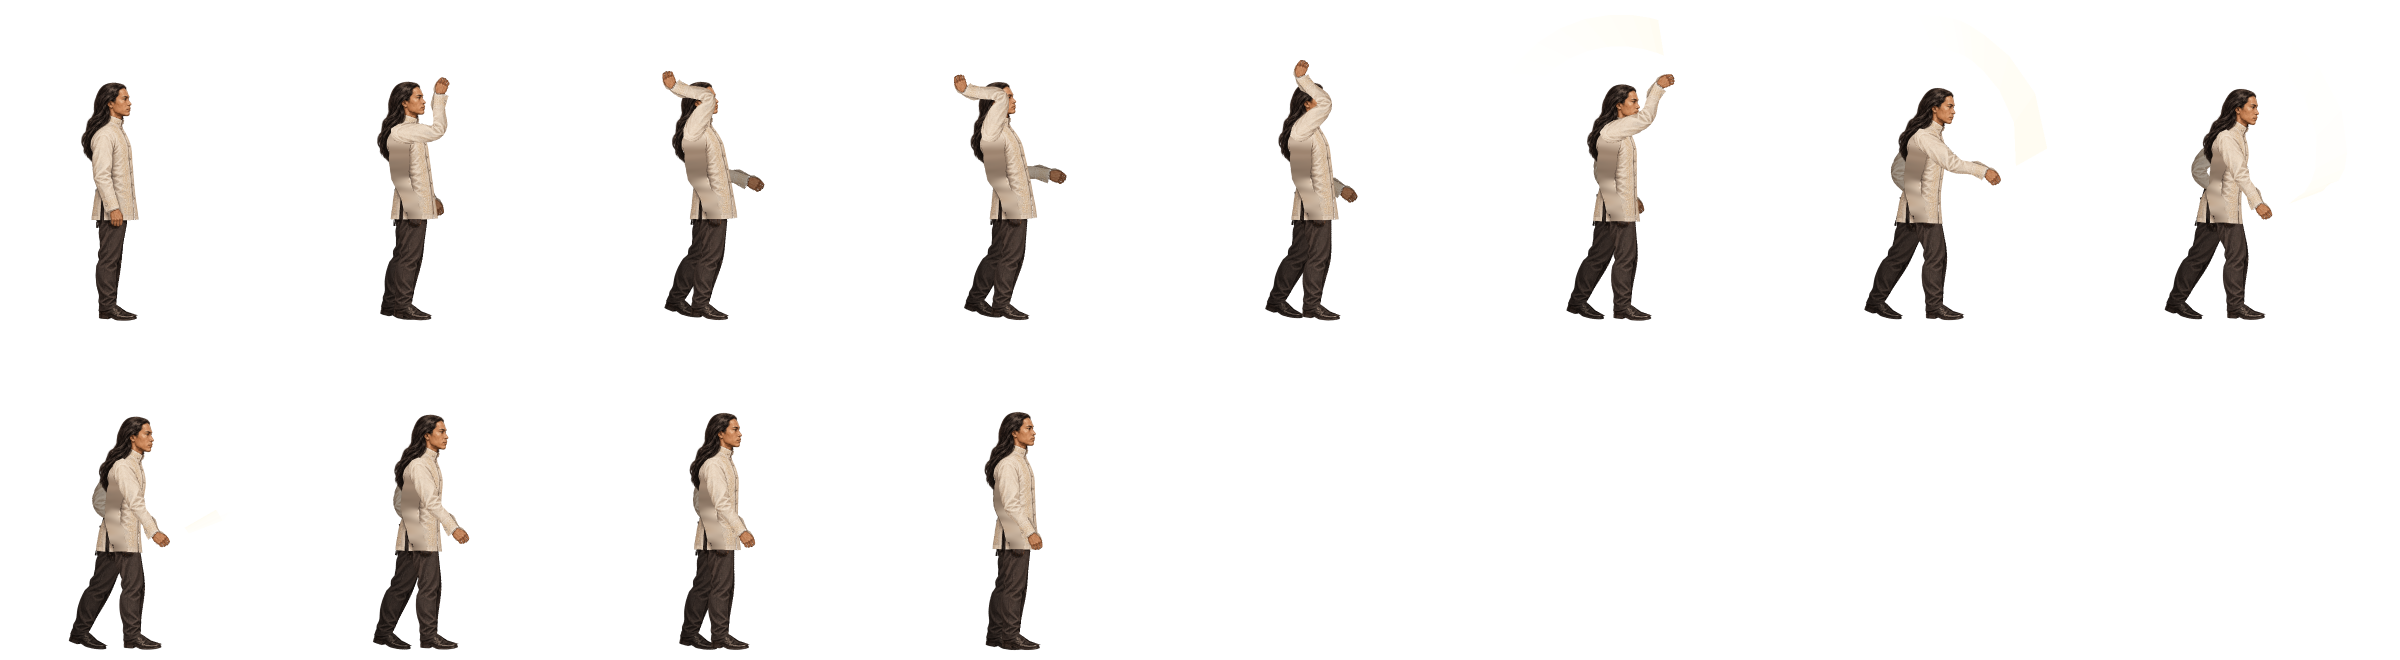
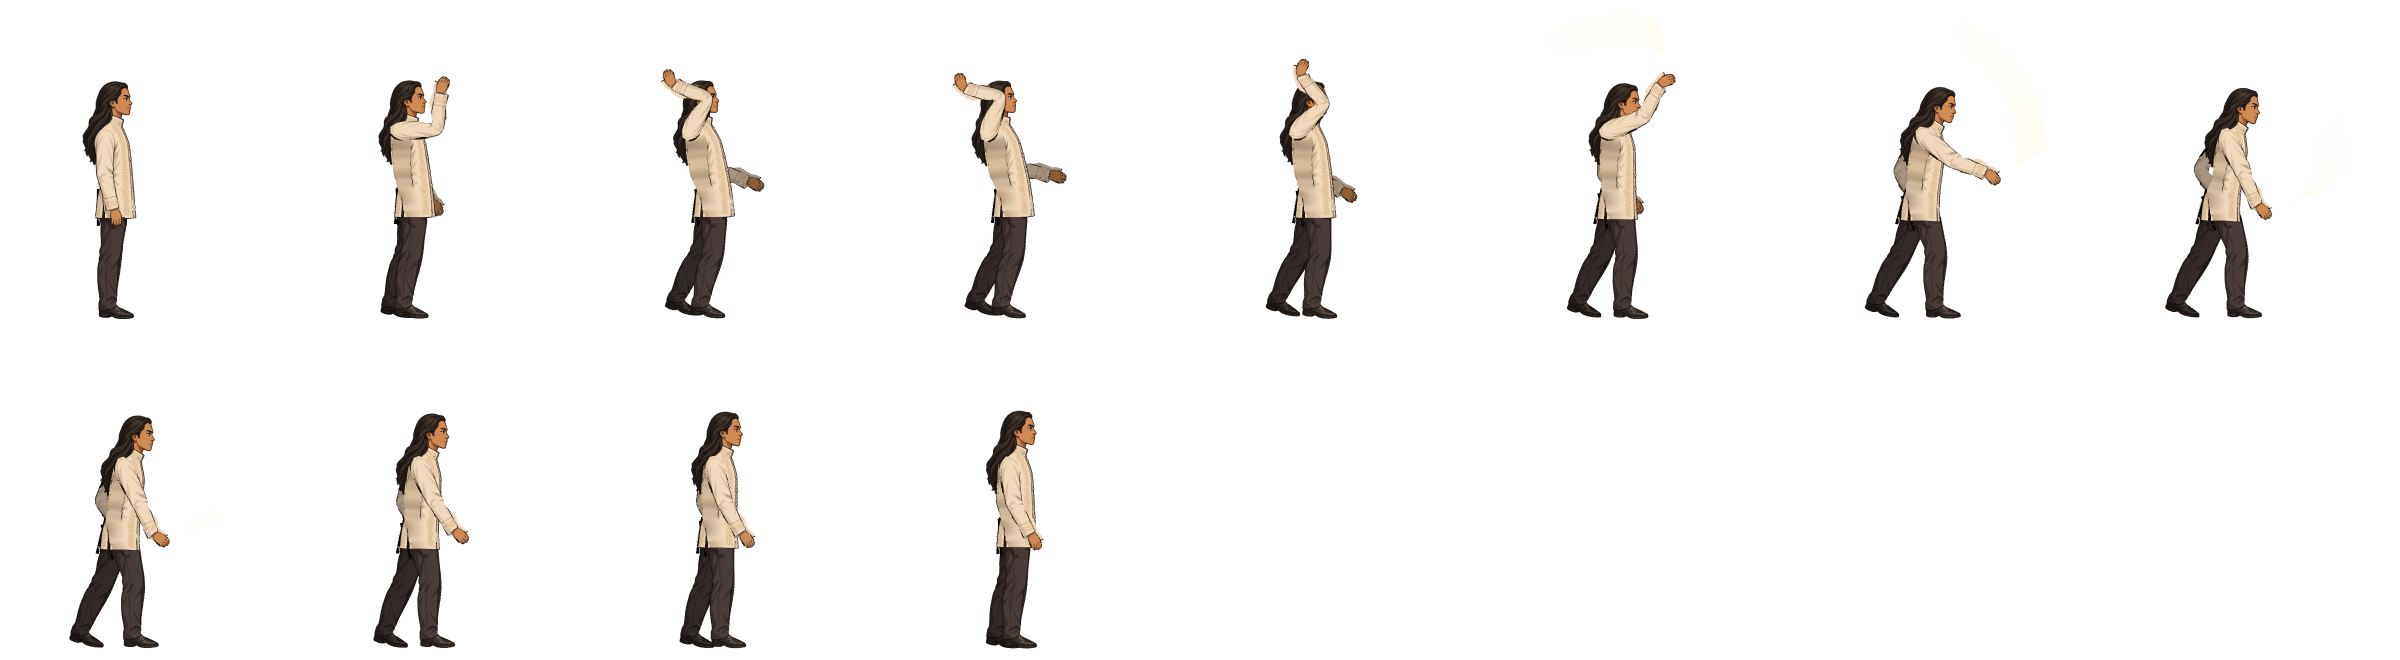
Block 145: Macario drawn in the NPCs' style
His still is now Macario in the NPCs' own style (clean outlines, flat
shading, from ART.md's prompt), replacing the realistic painting. The
pose carried over, so the skeleton did, with the sleeve and near shoe
traced again. skeleton.js keeps the drawing's outlines with the part
they ring (outlineLuma), the jacket's own lines on the jacket, and the
hand's soft edge out of the hidden trousers. Every sheet shipped; the
painting kept in docs-private/.

diff --git a/_dev/player-lab/macario.js b/_dev/player-lab/macario.js
@@ -3,15 +3,18 @@
 //
 // Macario's skeleton for _dev/tools/skeleton.js: where his bones are in
 // the still, how the still is split into layers, and what the sheets
-// are called. A skin painted on the same template (the same pose, the
-// same canvas, the same scale) uses this file as it is, with only
-// still changed, which is what makes a new outfit one command.
+// are called. The still is Macario drawn in the NPCs' own style (clean
+// outlines, flat shading; ART.md's prompt, 24 Oct 2026), which replaced
+// the realistic painting the same day (Block 145). A skin painted on the
+// same template (the same pose, the same canvas, the same scale) uses
+// this file as it is, with only still changed.
 //
 // Every coordinate is in the working picture: the still cropped to
 // crop and shrunk by shrink (so 210 x 745 for the 1024 x 1536 template),
 // read off zoomed crops with a 10px grid. node _dev/tools/skeleton.js
 // macario --debug writes that picture with the bones and outlines drawn
-// on, to check them by eye.
+// on, to check them by eye. Near-black pixels inside the arm's outline
+// are the drawing's own lines and go with the arm (outlineLuma).
 // =============================================================
 
 module.exports = {
@@ -19,7 +22,7 @@ module.exports = {
   crop: [290, 40, 420, 1490],   // x, y, w, h in the template
   shrink: 2,
 
-  ground: 737,                  // his soles
+  ground: 734,                  // his soles
 
   joints: {
     hip: [100, 362],            // the pelvis; the root, and the thighs' pivot
@@ -43,23 +46,24 @@ module.exports = {
   // The near arm, sleeve and hand: drawn in front of everything, and
   // drawn again behind him, darker, as the far arm. Hair inside it stays
   // with the body.
-  arm: [[72, 154], [95, 154], [108, 178], [112, 210], [109, 250], [105, 290],
-    [101, 318], [112, 343], [126, 360], [129, 398], [136, 408], [137, 428],
-    [131, 448], [119, 454], [104, 451], [97, 438], [95, 410], [84, 407],
-    [81, 368], [73, 352], [58, 327], [50, 300], [45, 255], [44, 205],
-    [47, 178], [56, 162]],
+  arm: [[72, 151], [98, 153], [110, 173], [115, 207], [113, 250], [111, 290],
+    [109, 318], [118, 343], [130, 358], [132, 398], [138, 410], [141, 428],
+    [134, 450], [120, 457], [104, 453], [96, 438], [94, 410], [83, 407],
+    [79, 368], [70, 350], [64, 328], [58, 300], [53, 240], [54, 180],
+    [60, 162]],
 
   // The near leg, from above the hip (under the jacket, filled with
   // trouser) down round the near shoe. Its front edge runs down the
   // crease where the far leg shows; the far leg and shoe are left out
   // and replaced by this leg drawn again, darker.
   leg: [[56, 338], [152, 338], [152, 440], [141, 500], [136, 550], [131, 590],
-    [123, 640], [119, 690], [150, 711], [186, 723], [188, 745], [58, 745],
+    [123, 640], [120, 690], [128, 698], [150, 708], [170, 718], [176, 730], [176, 745], [58, 745],
     [60, 700], [55, 600], [57, 500], [58, 440]],
 
   darkLuma: 100,                // trousers, shoes and hair are darker than this
   hairAbove: 330,               // dark pixels above this are hair, not trouser
-  hemY: 431,                    // the jacket ends here
+  hemY: 426,                    // the jacket ends here
+  outlineLuma: 34,              // near-black: the drawing's outlines
   farShade: 0.68,               // the far arm and leg, darkened
   farLegOffset: 16,             // the far foot stands this far ahead at rest
 

diff --git a/_dev/tools/skeleton.js b/_dev/tools/skeleton.js
@@ -161,9 +161,19 @@ function buildTextures(sk, img) {
     for (let x = 0; x < W; x++) {
       const i = y * W + x;
       if (!solid(i)) continue;
-      if (inArm[i] && !hair(i, y) && !(trouser(i, y) && !skin(i))) { copy(arm, i); armSrc[i] = 1; continue; }
-      if (trouser(i, y)) {
-        if (inLeg[i]) { copy(leg, i); legSrc[i] = 1; }
+      // A drawing with outlines (the NPCs' style) rings the sleeve and the
+      // hand in near-black: inside the arm's outline that black is the
+      // arm's own line, not hair or trouser, and must move with it.
+      const line = sk.outlineLuma && lum[i] < sk.outlineLuma;
+      if (inArm[i] && (line || (!hair(i, y) && !(trouser(i, y) && !skin(i))))) { copy(arm, i); armSrc[i] = 1; continue; }
+      // Above the hem, a near-black line is the jacket's own (the edges of
+      // its slits, its hem), so it stays on the jacket; the trouser seen
+      // through a slit is dark grey and goes with the leg.
+      if (trouser(i, y) && !(line && y <= sk.hemY + 2)) {
+        // Not inside the arm's outline: what is there is the hand's soft
+        // edge, which copied into the hidden trouser leaves pale flecks.
+        // The trouser under the hand is painted in instead.
+        if (inLeg[i] && !inArm[i]) { copy(leg, i); legSrc[i] = 1; }
         continue;   // the far leg's pixels: replaced by the far leg
       }
       copy(body, i); bodySrc[i] = 1;
@@ -177,7 +187,11 @@ function buildTextures(sk, img) {
     for (let x = 0; x < W; x++) {
       const i = y * W + x;
       if (inArm[i] && !bodySrc[i] && y < sk.hemY) bodyHole[i] = 1;
-      if (bodySrc[i] && !dark(i)) jacket[i] = 1;
+      // Only solid cloth: not a half-transparent edge, and not the warm
+      // fringe a cut-out drawing can leave along an edge, which painted in
+      // would smear pink across the jacket.
+      const A = px[i * 4 + 3];
+      if (bodySrc[i] && !dark(i) && A > 0.95 && (px[i * 4] - px[i * 4 + 1]) / A < 0.12) jacket[i] = 1;
     }
   }
   fillRows(body, W, H, bodyHole, jacket);
@@ -187,7 +201,7 @@ function buildTextures(sk, img) {
   for (let y = 0; y < H; y++) {
     for (let x = 0; x < W; x++) {
       const i = y * W + x;
-      if (inLeg[i] && !legSrc[i] && y < sk.hemY + 24) legHole[i] = 1;
+      if (inLeg[i] && !legSrc[i] && (y < sk.hemY + 24 || inArm[i])) legHole[i] = 1;
     }
   }
   fillUp(leg, W, H, legHole, legSrc, sk.hemY);

diff --git a/js/game.js b/js/game.js
@@ -2105,7 +2105,8 @@ if (BODY_TRANSLATE) player.style.bottom = "0px";
 // The sheets Macario wears with nothing equipped. A worn item replaces
 // whichever of them it declares and leaves the rest alone (setOutfit).
 //
-// Block 145. His own model since 24 Oct 2026: every sheet is written by
+// Block 145. His own model since 24 Oct 2026, drawn in the NPCs' style
+// (clean outlines, flat shading): every sheet is written by
 // _dev/tools/skeleton.js from one still (_dev/player-lab/macario.js;
 // node _dev/tools/skeleton.js macario --ship), not drawn frame by frame,
 // so the numbers below are the tool's, the same for every sheet: a cell
@@ -2130,7 +2131,7 @@ const BASE_SPRITE_SHEETS = {
   shootAim: Object.assign({ src: "assets/sprites/player/macario-shoot.png", frames: 12, fps: 8,
     startFrame: 0, endFrame: 2, loop: false }, MACARIO_CELL),
   shootFire: Object.assign({ src: "assets/sprites/player/macario-shoot.png", frames: 12, fps: 18,
-    startFrame: 3, endFrame: 11, loop: false, muzzle: { x: 162, y: 62 } }, MACARIO_CELL),
+    startFrame: 3, endFrame: 11, loop: false, muzzle: { x: 163, y: 61 } }, MACARIO_CELL),
 
   // The one-tap punch (playMelee), 12 frames at 24: half a second. Block
   // 71's contact is the frame the fist lands on, where the hit is

diff --git a/js/asset-manifest.js b/js/asset-manifest.js
@@ -436,12 +436,12 @@ window.ASSET_VERSIONS = {
   "assets/sprites/enemies/kawal-hit.png": "4050874079",
   "assets/sprites/enemies/kawal-still.png": "1894805909",
   "assets/sprites/enemies/kawal-walk.png": "1562208792",
-  "assets/sprites/player/macario-idle.png": "1197677810",
-  "assets/sprites/player/macario-jump.png": "1271253792",
-  "assets/sprites/player/macario-melee.png": "1337309731",
-  "assets/sprites/player/macario-shoot.png": "1726851666",
-  "assets/sprites/player/macario-slash.png": "2935745944",
-  "assets/sprites/player/macario-walk.png": "2337211659",
+  "assets/sprites/player/macario-idle.png": "1882840557",
+  "assets/sprites/player/macario-jump.png": "452267410",
+  "assets/sprites/player/macario-melee.png": "1097123052",
+  "assets/sprites/player/macario-shoot.png": "2301108889",
+  "assets/sprites/player/macario-slash.png": "1139469505",
+  "assets/sprites/player/macario-walk.png": "2346243320",
   "assets/sprites/rooms/bahay/altar.png": "2109676427",
   "assets/sprites/rooms/bahay/bangkito.png": "2431776932",
   "assets/sprites/rooms/bahay/banig.png": "343533461",

diff --git a/_dev/player-lab/index.html b/_dev/player-lab/index.html
@@ -150,7 +150,10 @@ function frame(now) {
   requestAnimationFrame(frame);
 }
 
-fetch("out/macario.json?t=" + Date.now()).then((r) => r.json()).then((list) => {
+// ?model=<skeleton> shows another skeleton's output (a skin under
+// test); without it, the game's own (macario).
+const MODEL = new URLSearchParams(location.search).get("model") || "macario";
+fetch("out/" + MODEL + ".json?t=" + Date.now()).then((r) => r.json()).then((list) => {
   for (const r of list) {
     const d = { src: r.file, frames: r.frames, fps: r.fps, columns: r.columns, contentTop: r.contentTop, contentHeight: r.contentHeight, footX: r.footX };
     if (r.name === "melee" || r.name === "slash") d.parts = [[0, r.frames - 1, r.fps, 0.6]];

diff --git a/index.html b/index.html
@@ -712,8 +712,8 @@
   <script src="content/act4.js?v=3959591231"></script>
   <script src="content/items.js?v=3420593897"></script>
   <script src="content/questions.js?v=3416852880"></script>
-  <script src="js/asset-manifest.js?v=3006405524"></script>
-  <script src="js/game.js?v=2461273066"></script>
+  <script src="js/asset-manifest.js?v=1707300679"></script>
+  <script src="js/game.js?v=388743416"></script>
   <script src="js/acts.js?v=1586992135"></script>
   <script src="js/inventory.js?v=2872116366"></script>
   <script src="js/assessment.js?v=3475551511"></script>

diff --git a/ART.md b/ART.md
@@ -126,30 +126,6 @@ Nothing needed.
 
 Nothing needed.
 
-Also wanted (not in the game yet):
-
-    macario-npc-style.png
-        (Attach isko-still.png from the folder assets/sprites/characters,
-        and macario-still.png from the folder _dev/player-lab)
-        Refer to the two attached images. Draw the man in the second
-        image (his face, his long loose black hair, his white jacket with
-        the standing collar and the cream embroidery down the front, his
-        dark trousers and his black leather shoes) in exactly the art
-        style of the first image: the same clean dark outlines, the same
-        simple, flatter shading with few colours, the same level of
-        detail and the same proportions of head to body. He stands side
-        on, facing right, upright and relaxed, both feet flat on the
-        ground, his near arm hanging straight down with a little space
-        between the arm and his body, the hand loosely closed. His whole
-        figure is in the picture, about 1000 pixels tall, nothing cut
-        off. No shadow on the ground, nothing else in the picture.
-        Transparent background.
-        (NOT STARTED; for the team: a Macario in the NPCs' own style, so
-        he matches them and moves as naturally as they do (Block 145).
-        If it comes out right, his bones are traced on it as on
-        macario-still.png and _dev/tools/skeleton.js writes every sheet
-        from it.)
-
 ### Act II
 
 Nothing needed.
@@ -603,7 +579,10 @@ Done and in the game. Nothing here needs drawing.
                   (malabon-1 and 2), Bilibid's yard (patyo)
 
     Sprites
-        Macario   idle, walk, jump, punch, shot
+        Macario   his still in the NPCs' style (macario-still.png in
+                  _dev/player-lab, 24 Oct 2026), from which
+                  skeleton.js writes idle, walk, jump, punch, shot
+                  and the bolo's slash
         Act I     Nanay, the Kutsero and his horse (Kabayo), the
                   Barbero, the Mananahi, the three siga, the direktor,
                   Maryam, the Sultan, the kawal, the Katipunero, the

diff --git a/DECISIONS.md b/DECISIONS.md
@@ -6547,6 +6547,26 @@ shot rather than having both. Still open: the pistol in his hand is
 owed like the blade (a prop, the same mechanism), so the shot points an
 empty fist, and the slash is made empty-handed until the blade comes.
 
+The drawing changed, not the tool, and that is what made him look right
+(24 Oct 2026, the proponent: "FINALLY!"). Two tries before it failed:
+the realistic painting animated by the tool still read as off, and a
+parts sheet from ChatGPT (every body part drawn apart, put together by
+the tool) looked wrong at the joints and in proportion. Then the same
+Macario was asked for in the NPCs' own style (ART.md: Isko's still for
+the style, the painting for the design): clean outlines, flat shading,
+the NPCs' head-to-body proportions. ChatGPT kept the painting's pose
+almost exactly, so the skeleton carried over with a few points traced
+again (the sleeve's back edge, the near shoe's top), and the motion the
+proponent had already accepted on the NPCs now reads as natural on him.
+Why, as far as can be told: a painted, near-photographic figure shows
+every stretch the mesh makes and every invented hidden part, and it
+did not match the drawn world round it; a flat, outlined figure hides
+both, and matches. Two changes to the tool came with it: near-black
+pixels inside the arm's outline go with the arm (outlineLuma), and the
+jacket's own lines above the hem stay on the jacket; the hand's soft
+edge is kept out of the hidden trousers. The painting went to
+docs-private/art-delivered/2026-10-24-old-macario/.
+
 ## Moved from CLAUDE.md (Block 110, Scan S36)
 
 History taken out of CLAUDE.md, word for word, so the file every

diff --git a/CLAUDE.md b/CLAUDE.md
@@ -237,11 +237,12 @@ off the repository.
     _dev/hooks/                pre-commit: prepare.js --check (Block 106)
     _dev/rigs/                 one rig per character animated from a
                                still by animate-still.js (Block 97)
-    _dev/player-lab/           the player's own model (Block 145): its
-                               skeleton (macario.js) for
-                               _dev/tools/skeleton.js, the sheets it
-                               writes (out/), and the test page
-                               (index.html) beside today's Macario
+    _dev/player-lab/           the player's own model (Block 145): his
+                               still in the NPCs' style
+                               (macario-still.png), its skeleton
+                               (macario.js) for _dev/tools/skeleton.js,
+                               the sheets it writes (out/), and the test
+                               page (index.html) beside an NPC
     _dev/tools/                measure-sprite.js, key-black.py (a sheet
                                on black), key-still.js (a still on
                                black, cropped and shrunk; Block 133),

diff --git a/TRACKER.md b/TRACKER.md
@@ -391,8 +391,9 @@ _dev/tools/cut-room-kit.py cuts a delivered sheet.
 Block 142 (above) comes first. Then, in order.
 
 Block 145 (IN PROGRESS), Macario's own skeleton: the new model is in
-the game since 24 Oct 2026 (BASE_SPRITE_SHEETS; the old sheets kept in
-docs-private/art-delivered/2026-10-24-old-macario/). On the phone:
+the game since 24 Oct 2026, drawn in the NPCs' style the same day
+(BASE_SPRITE_SHEETS; the artist's sheets and the realistic painting
+kept in docs-private/art-delivered/2026-10-24-old-macario/). On the phone:
 open any story point with ?dev=1 and see him stand, walk, run, jump,
 punch, aim and fire, the same height as the people round him, his feet
 on the road, nothing cut off above his head or in front of his fist;
